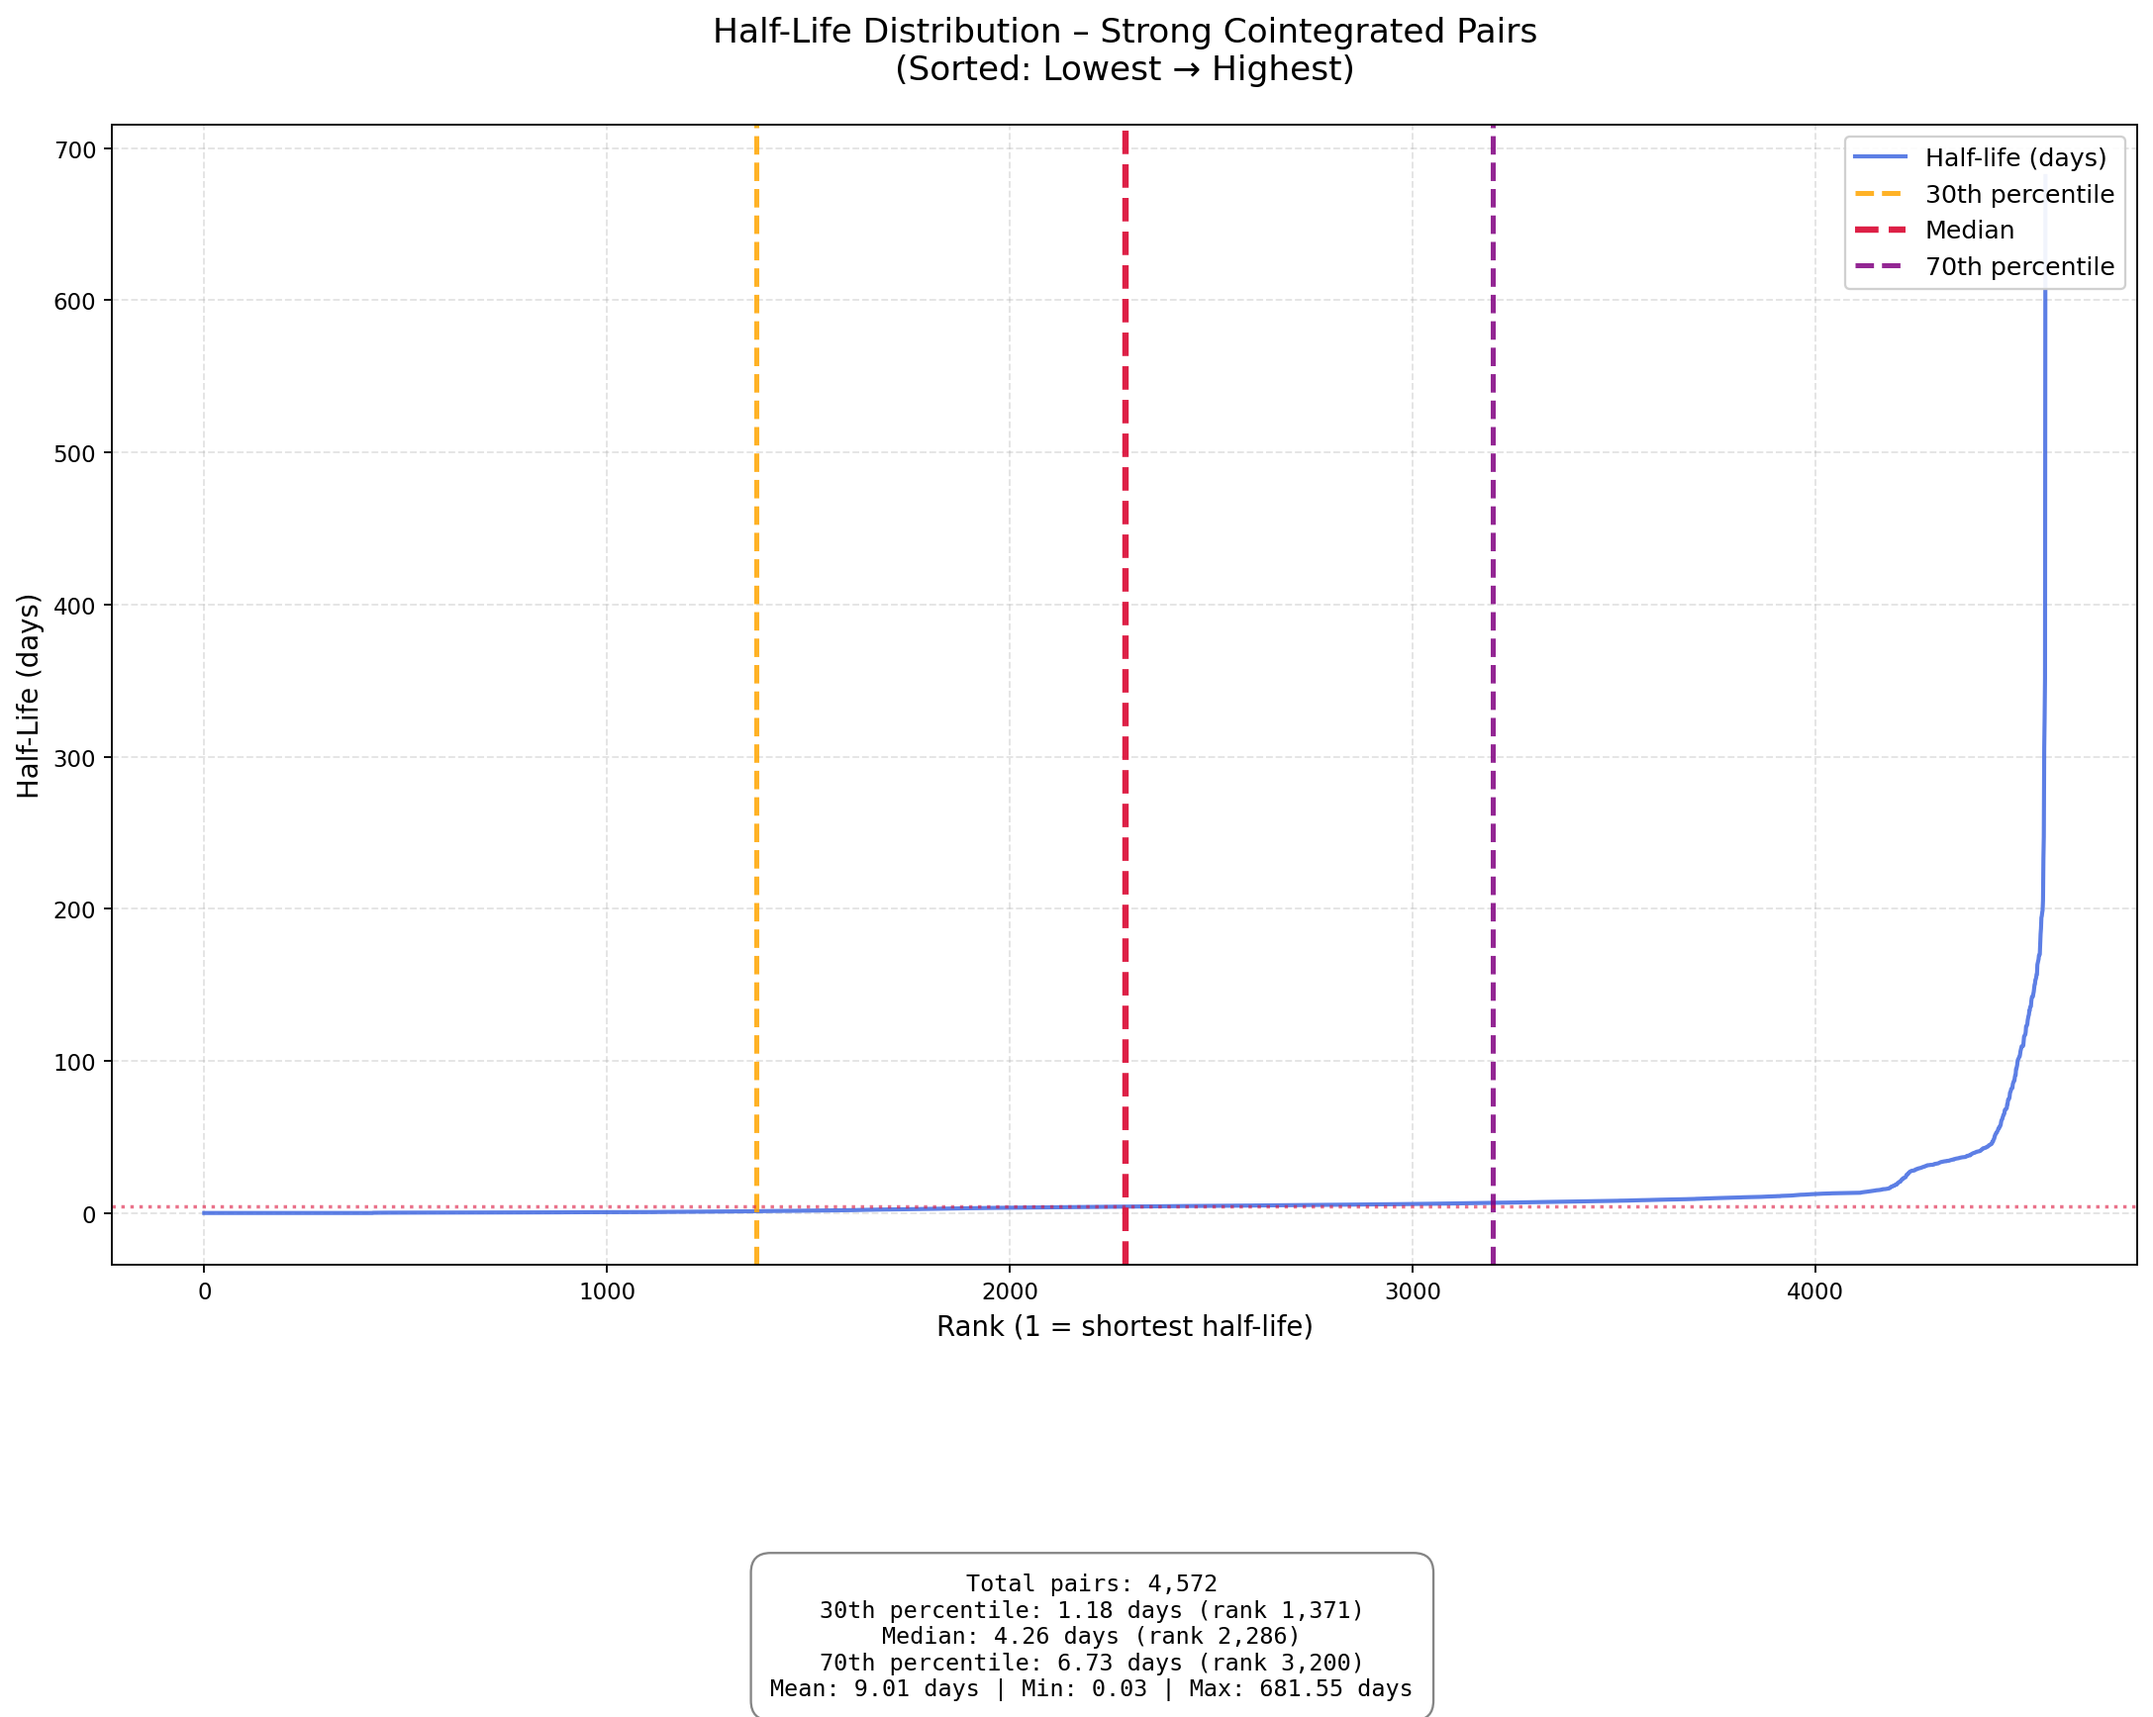
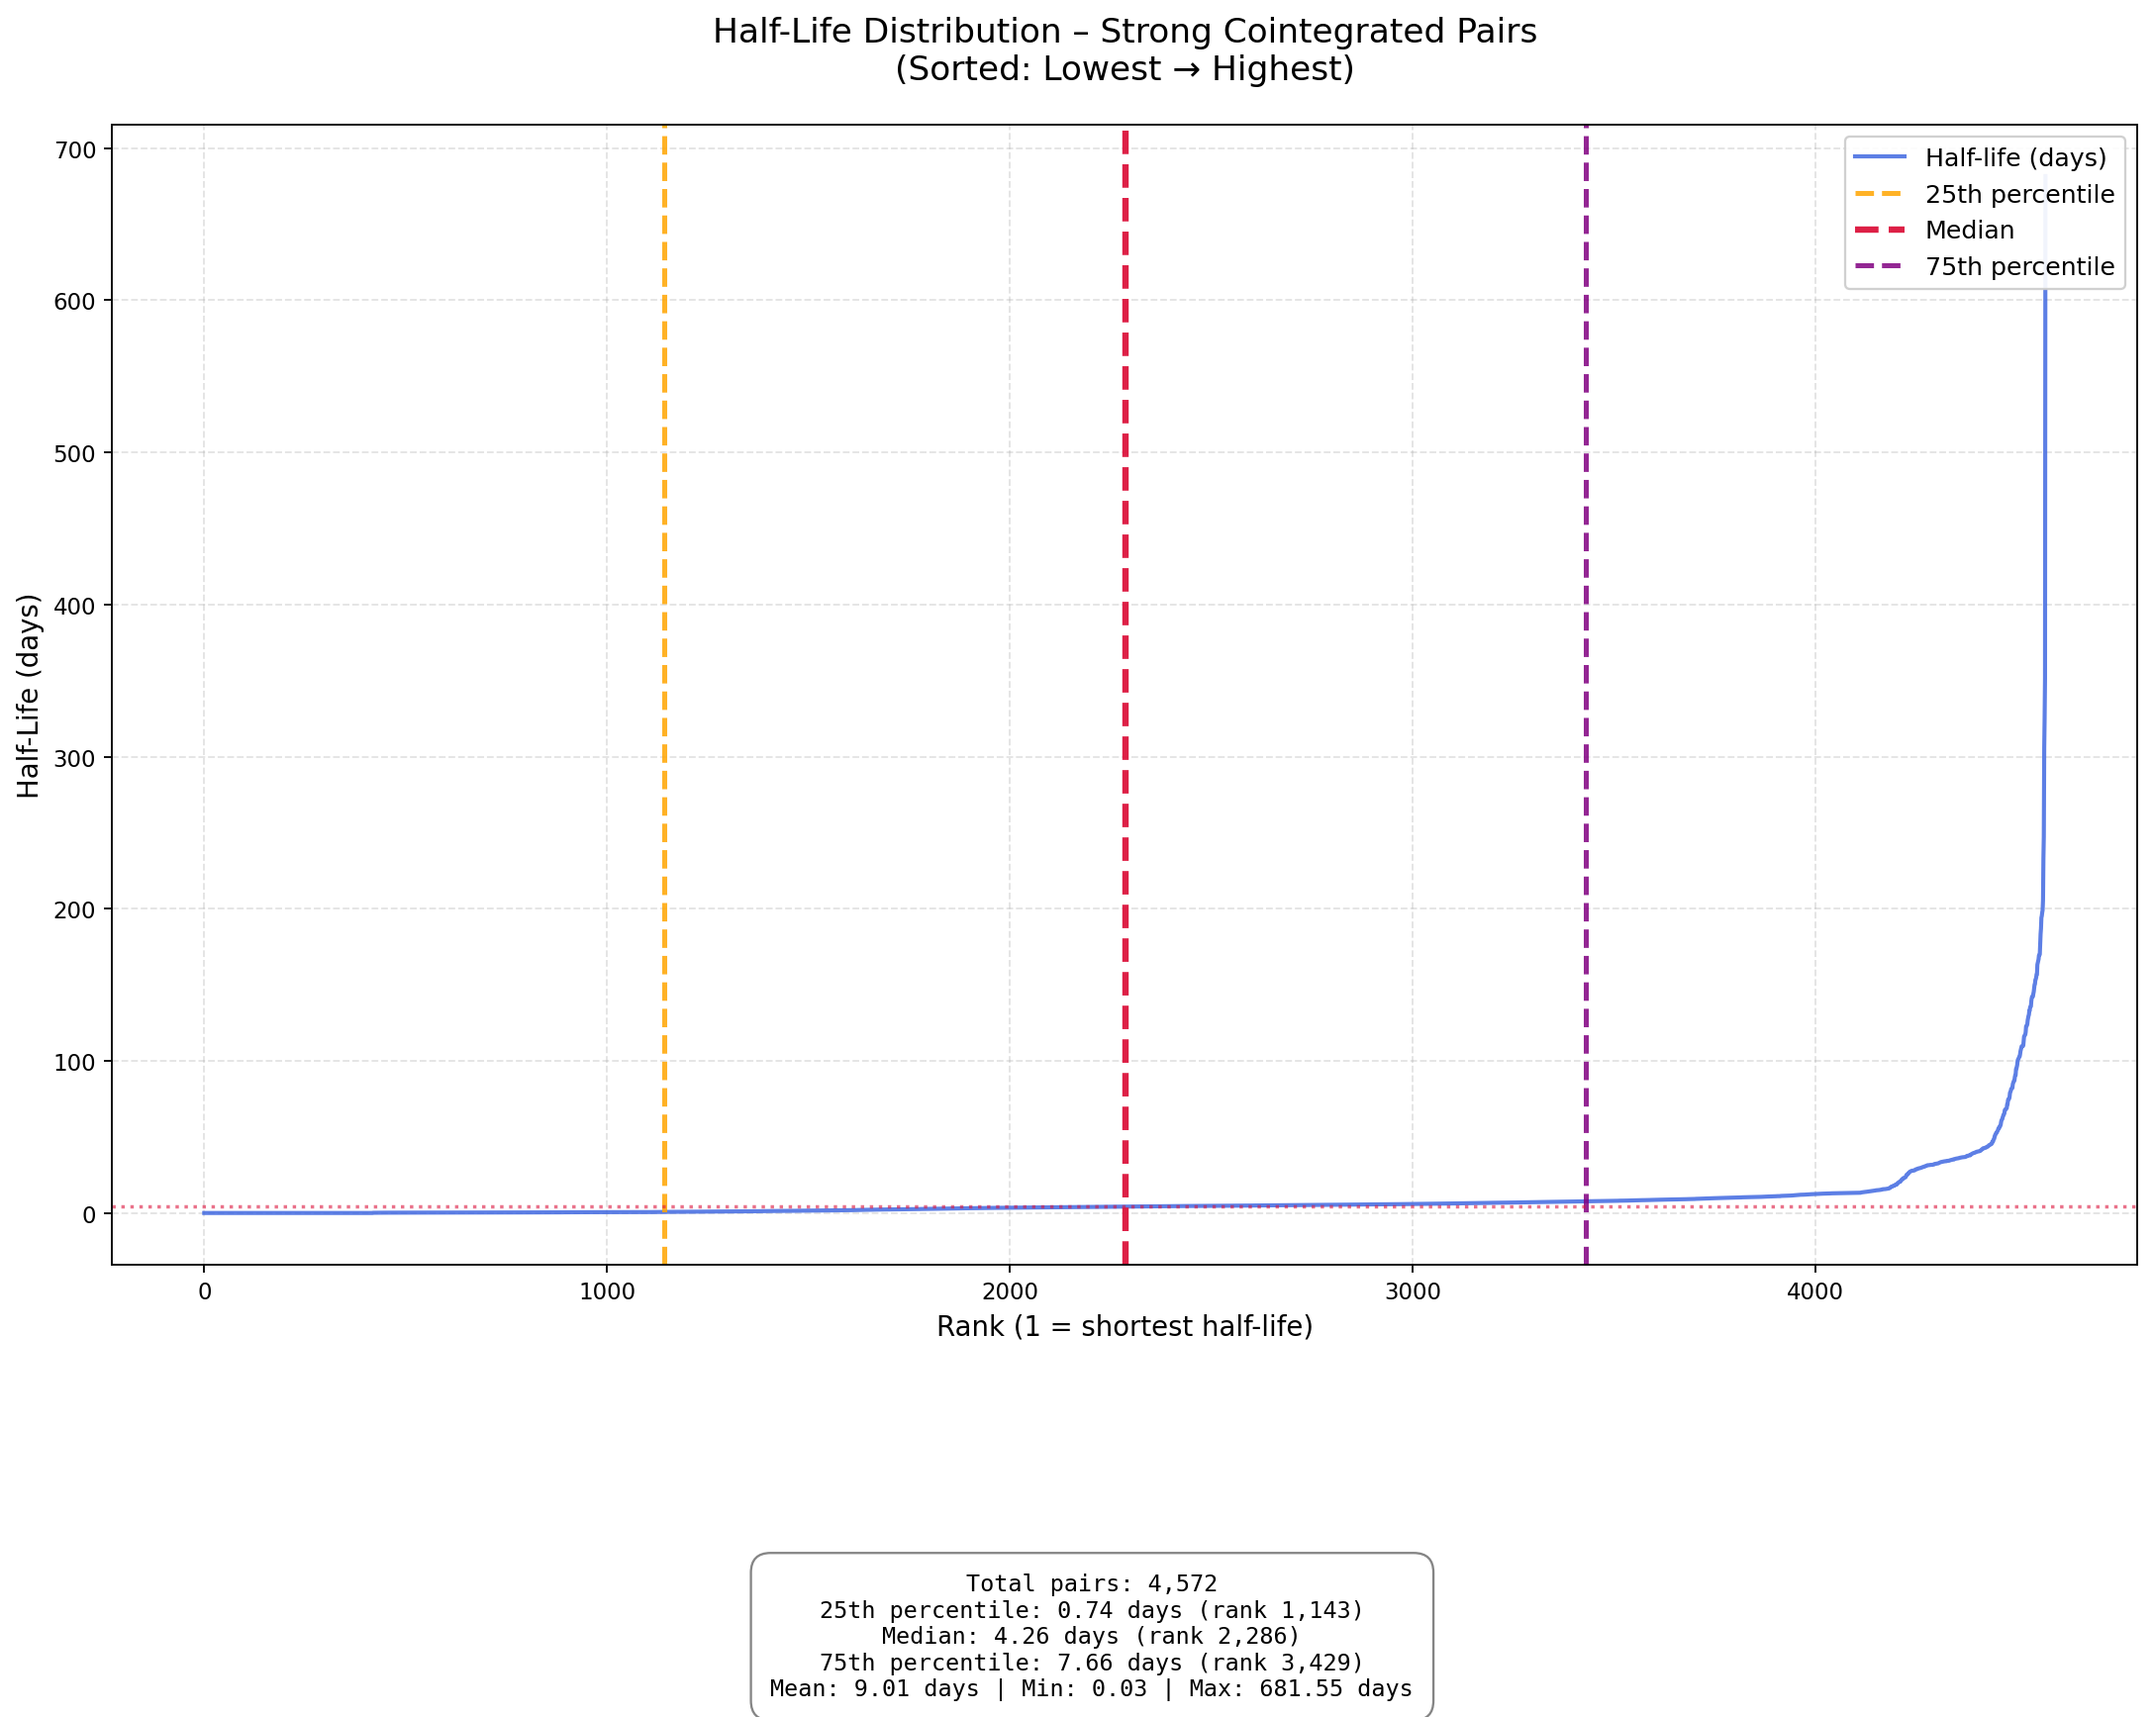
save

Changed region(s): [[0.4929, 0.9337, 0.5237, 0.9648]]

diff --git a/src/pcv2/cleanup_pairs_data.py b/src/pcv2/cleanup_pairs_data.py
@@ -313,8 +313,8 @@ if __name__ == "__main__":
 
     # ←←←←←←←←←←←←←←←←←←←←←←←←←←←←←←←←←←←←←←←←←←←←←←←←←←←←←←←
     # (plot + trim will use these numbers)
-    LOWER_P = 30
-    UPPER_P = 70
+    LOWER_P = 25
+    UPPER_P = 75
     # ←←←←←←←←←←←←←←←←←←←←←←←←←←←←←←←←←←←←←←←←←←←←←←←←←←←←←←←
 
     print(f"📍 Using percentiles: {LOWER_P}th → {UPPER_P}th for BOTH chart AND trimming")
